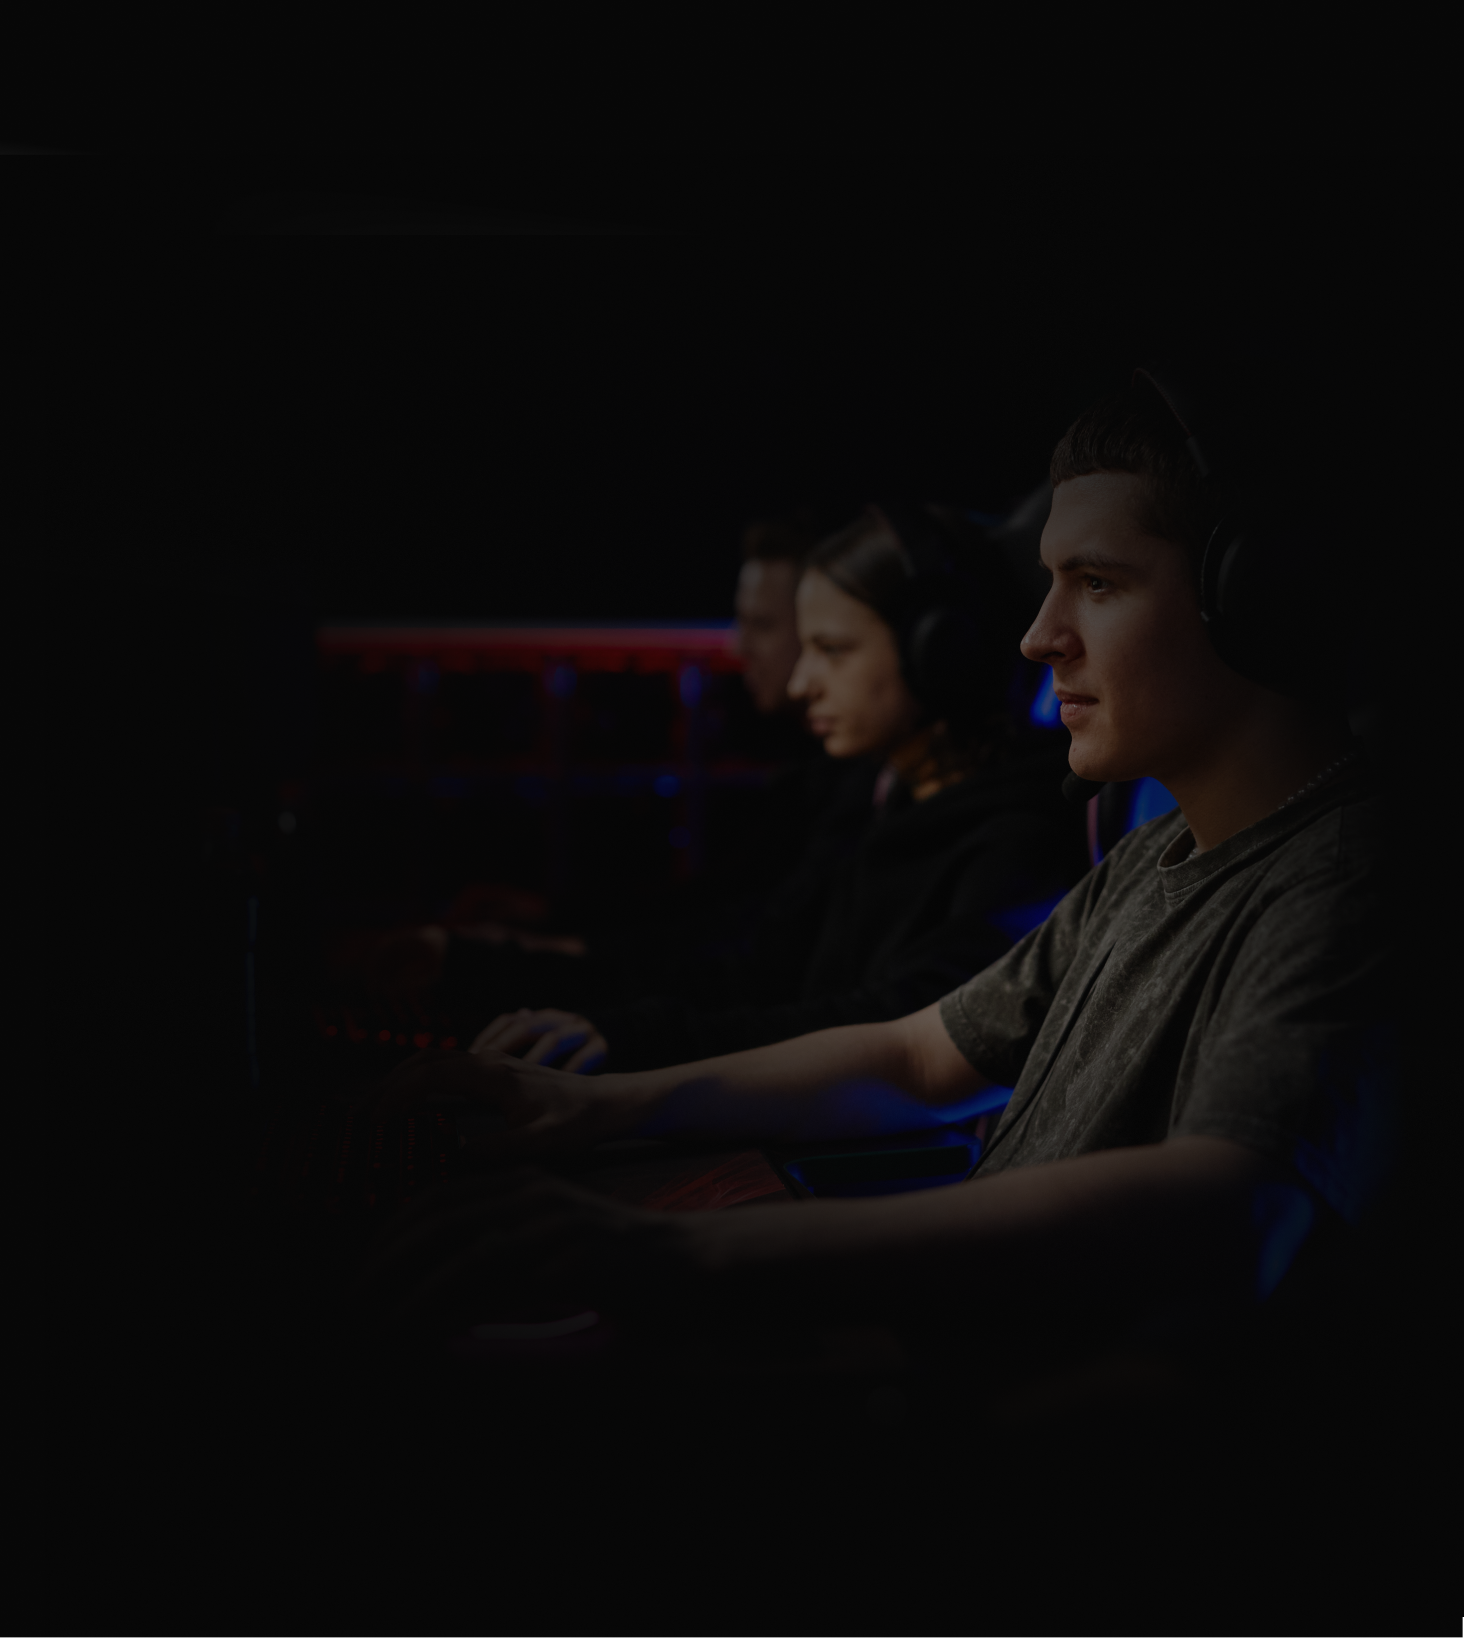
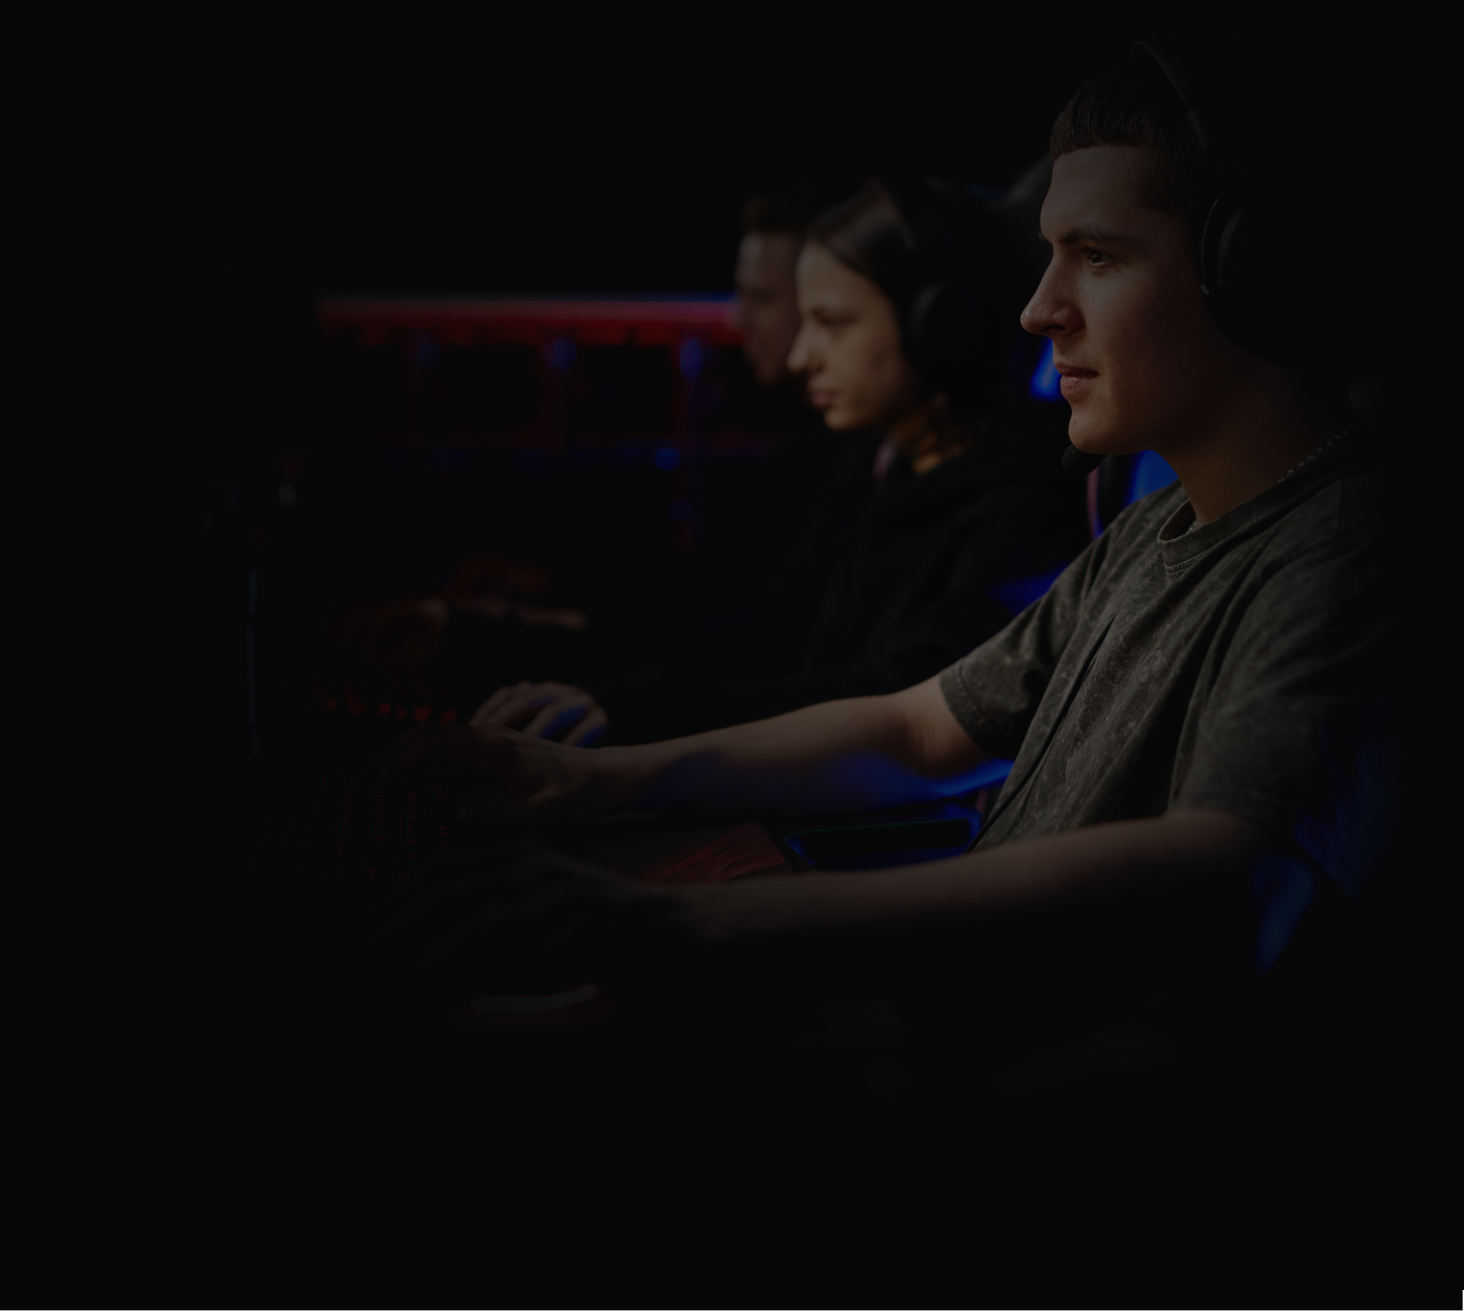
modif

diff --git a/src/pages/index.tsx b/src/pages/index.tsx
@@ -11,40 +11,54 @@ export default function Home() {
     <main>
       <Header />
       <body>
-        <div className="wrapper">
-              <div className="layout min-h-[250px]"></div>
-              <div id='presentation' className='section-about container min-h-[250px] z-[2]'>
-                <h1>
-                  <Image 
-                    src= '/img/logo.png'
+        <div className="wrapper container pt-8">
+              <div id='presentation' className='flex flex-col mb-[106px] md:flex-row-reverse md:mb-0'>
+                <Image
+                  src="/img/gamer1.png"
+                  alt="Gamer Image"
+                  width={1464}
+                  height={1311}
+                  className='mb-[-130px] mt-[-100px] md:w-1/2 xl:mt-[-150px]'               
+                />
+                <div className='md:mt-[40px]'>
+                  <Image
+                    src="/img/logo-footer.png"
+                    alt="We Spawn logo"
                     width={217}
                     height={69}
-                    alt='WeSpawn Logo'
                     className='mb-2'
                   />
-                </h1>                               
-                <h1 className='pb-2 font-ppneuemachina'>L'ESPORT FAIT SUR MESURE</h1>
-                <p className='font-rnssanz'>
+                  <h1 className='font-ppneuemachina mb-2'>L'ESPORT FAIT SUR MESURE</h1>
+                  <p className='font-rnssanz'>
                   L'écosystème qui facilite <b>l'organisation des compétitions d'e-sport</b> pour une immersion professionnelles de tous les joueurs.
-                </p>                
-                <button className='bg-var-yellow btn1 font-bold' ><a href="#savoirplus">En savoir plus</a></button>              
+                  </p>
+                  <button className='bg-[#EAFE52] btn1 hover:bg-[#242629] hover:text-white font-rnssanz font-semibold' ><a href="#savoirplus">En savoir plus</a></button>  
+                </div>
               </div>
-              <div className=' container min-h-[250px]' id='savoirplus'>
-                <h2 className='mb-8 pt-[106px] font-ppneuemachina'>C'EST QUOI ?</h2>
-                <p className=''>
+              <div id='savoirplus' className='flex flex-col md:flex-row-reverse'>                
+                <div className='md:mt-[40px] bg-w'>
+                  <h2 className='font-ppneuemachina mb-2'>COMMENT ÇA MARCHE ?</h2>
+                  <p className='font-rnssanz'>
                   Conçu pour les organisateurs d'évènements e-sportif, La plateforme <b>WESPAWN</b> vous garantie une <b>aide à la gestion</b> de vos compétitions en toute simplicité et une <b>visibilité assurée</b> auprès des joueurs.
-                </p>
+                  </p>
+                </div>
+                <Image
+                  src="/img/gamer2.png"
+                  alt="Gamer Image"
+                  width={1170}
+                  height={1363}
+                  className='md:w-1/2'             
+                />
               </div>
-              <div className="layout2"></div>
-              <div className='container'>
+              <div className='mt-[-100px] md:mt-[-200px] lg:mt-[-300px]'>
                 <h2 className='font-ppneuemachina'>OUVERTURE DANS</h2>
                 <Countdown/>
               </div>
-              <div  className='min-h-[250px] container'>
-                <h1 className='mb-6' id='newsletter'>Abonne toi à la newsletter</h1>
+              <div className='min-h-[250px]'>
+                <h2 className=' font-ppneuemachina' id='newsletter'>ABONNE TOI À LA NEWSLETTER</h2>
                 <NewsletterForm />
               </div>
-              <div className='container' id='contact'>
+              <div id='contact'>
                 <Footer />
               </div>
         </div>

diff --git a/src/components/Countdown.tsx b/src/components/Countdown.tsx
@@ -35,8 +35,8 @@ const Countdown = () => {
   }, []);
 
   const containerStyle: React.CSSProperties = {
-    width: '74px',
-    height: '75px',
+    width: '80px',
+    height: '80px',
     padding: '16px',
     display: 'flex',
     flexDirection: 'column',
@@ -49,31 +49,35 @@ const Countdown = () => {
     marginBottom: '64px',
   };
   const digitStyle: React.CSSProperties = {
-
+    fontSize: '24px',
     fontWeight: 'bold',
   };
 
   const labelStyle: React.CSSProperties = {
+    fontSize: '12px',    
   };
 
   return (
     <div className="flex justify-start">
       <div className="text-center" style={containerStyle}>
-        <h2 style={digitStyle}>{timeLeft.days}</h2>
+        <span style={digitStyle}>{timeLeft.days}</span>
         <p style={labelStyle}>Jours</p>
       </div>
       <div className="text-center" style={containerStyle}>
-        <h2 style={digitStyle}>{timeLeft.hours}</h2>
-        <p style={labelStyle}>Heures</p>
+        <span className='' style={digitStyle}>{timeLeft.hours}</span>
+        <p className='' style={labelStyle}>Heures</p>
       </div>
       <div className="text-center" style={containerStyle}>
-        <h2 style={digitStyle}>{timeLeft.minutes}</h2>
+        <span style={digitStyle}>{timeLeft.minutes}</span>
         <p style={labelStyle}>Min</p>
       </div>
       <div className="text-center" style={containerStyle}>
-        <h2 style={digitStyle}>{timeLeft.seconds}</h2>
+        <span style={digitStyle}>{timeLeft.seconds}</span>
         <p style={labelStyle}>Sec</p>
       </div>
+
+      <style jsx>{`
+      `}</style>
     </div>
 
   );

diff --git a/src/components/Header.tsx b/src/components/Header.tsx
@@ -7,7 +7,7 @@ export default function Header() {
       <main>
         <nav>
           <div className="container">
-            <div className="flex justify-between items-center p-2.5">
+            <div className="flex justify-between items-center mt-5">
               <Link href="/">
                 <Image 
                     src= '/img/logo_wespawn.png'
@@ -18,9 +18,9 @@ export default function Header() {
               </Link>              
               <span className="md:hidden"><BurgerMenu/></span>
               <div className="hidden md:flex md:justify-end md:items-center w-full md:w-auto font-ppneuemachina">
-                  <a href="#presentation" className="text-white mr-8">PRÉSENTATION</a>
-                  <a href="#newsletter" className="text-white mr-8">NEWSLETTER</a>
-                  <a href="#contact" className="text-white">NOUS CONTACTER</a>
+                  <a href="#presentation" className="text-white mr-8 hover:text-var-yellow">PRÉSENTATION</a>
+                  <a href="#newsletter" className="text-white mr-8 hover:text-var-yellow">NEWSLETTER</a>
+                  <a href="#contact" className="text-white bg-[#1F2526] p-5 rounded-[86px] hover:text-var-yellow">NOUS CONTACTER</a>
               </div>
             </div>
           </div>

diff --git a/src/styles/globals.css b/src/styles/globals.css
@@ -16,16 +16,6 @@
   }
 }
 
-@font-face {
-  font-family: 'RNSSanz';
-  src: url('/fonts/RNSSanz') format('truetype');
-  /* Ajoutez d'autres formats de police si nécessaire */
-  /* src: url('/fonts/myfont.woff') format('woff'), */
-  /* src: url('/fonts/myfont.otf') format('opentype'), */
-  /* ... */
-}
-
-
 body {
   background-color: #070707;
   color: #FFFFFF;
@@ -43,7 +33,6 @@ body h1 {
   overflow: hidden;
 }
 
-
 /* image gamer1*/
 .wrapper > .layout{
   position:relative;
@@ -53,7 +42,6 @@ body h1 {
   background-position: center;
   z-index: 0;
 }
-
 
 .wrapper > .layout::before{
   content: "";
@@ -65,13 +53,12 @@ body h1 {
   width: 530px;
   height: 450px;
   position: absolute;
-  top: 250px;
+  top: 150px;
   left: -130px;
   z-index: -1;
 }
 
 /* image gamer2*/
-
 .wrapper > .layout2{
   position:relative;
   background-image: url("/img/gamer2.png");
@@ -96,5 +83,8 @@ body h1 {
   min-height: none;
 }
 
-
-
+.bg-w {
+  background-image: url("/img/background-w.png");
+  background-size: cover;
+  background-position: center;
+}

diff --git a/src/components/Newsletters.tsx b/src/components/Newsletters.tsx
@@ -34,7 +34,7 @@ export default function NewsletterForm() {
         type="email"
         placeholder="Adresse e-mail" {...register('email')} />
       {errors.email && <p>Entrer une adresse e-mail valide</p>}
-      <button className='btn font-bold' type="submit">Envoyer</button>
+      <button className='bg-[#EAFE52] text-[#16181D] btn1 hover:bg-[#242629] hover:text-white font-rnssanz font-semibold' type="submit">Envoyer</button>
       <style jsx>{`
         .inp {
           padding: 8px;
@@ -54,18 +54,6 @@ export default function NewsletterForm() {
           opacity: 0.3;
         }
         
-        .btn {
-          background-color: #f2c94c;
-          color: #fff;
-          padding: 8px 16px;
-          border: none;
-          border-radius: 6px;
-          cursor: pointer;
-          position: absolute;
-          color: #16181D;
-          width: 88px;
-          height: 51px;
-        }
       `}</style>
     </form>
   );

diff --git a/src/styles/Countdown.module.css b/src/styles/Countdown.module.css
@@ -1,6 +1,16 @@
 .countdown-container {
-    display: flex;
-    justify-content: center; 
+  width: 80px;
+  height: 80px;
+  padding: 16px;
+  display: flex;
+  flex-direction: column;
+  align-items: center;
+  justify-content: center;
+  border: '2px solid #D2F843';
+  border-radius: 8px;
+  margin-right: 16px;
+  margin-top: 24px;
+  margin-bottom: 64px;
   }
   
   .countdown-item {
@@ -18,5 +28,17 @@
   .countdown-label {
     font-size: 12px;
   }
+
+/*media queries min 768px*/
+
+@media (min-width: 768px) {
+  .countdown-number {
+    font-size: 48px;
+  }
+  
+  .countdown-label {
+    font-size: 24px;
+  }
+}
   
   

diff --git a/src/components/Axeptio.tsx b/src/components/Axeptio.tsx
@@ -5,11 +5,11 @@ const Axeptio = () => {
         <Script strategy="afterInteractive" id="axeptio-hotjar">
         {`
             <!-- Axeptio -->
-            window.axeptioSettings = {
+              window.axeptioSettings = {
                 clientId: "6484704c2ad3bb7dcc849927",
                 cookiesVersion: "wespawn-fr",
               };
-               
+              
               (function(d, s) {
                 var t = d.getElementsByTagName(s)[0], e = d.createElement(s);
                 e.async = true; e.src = "//static.axept.io/sdk.js";
